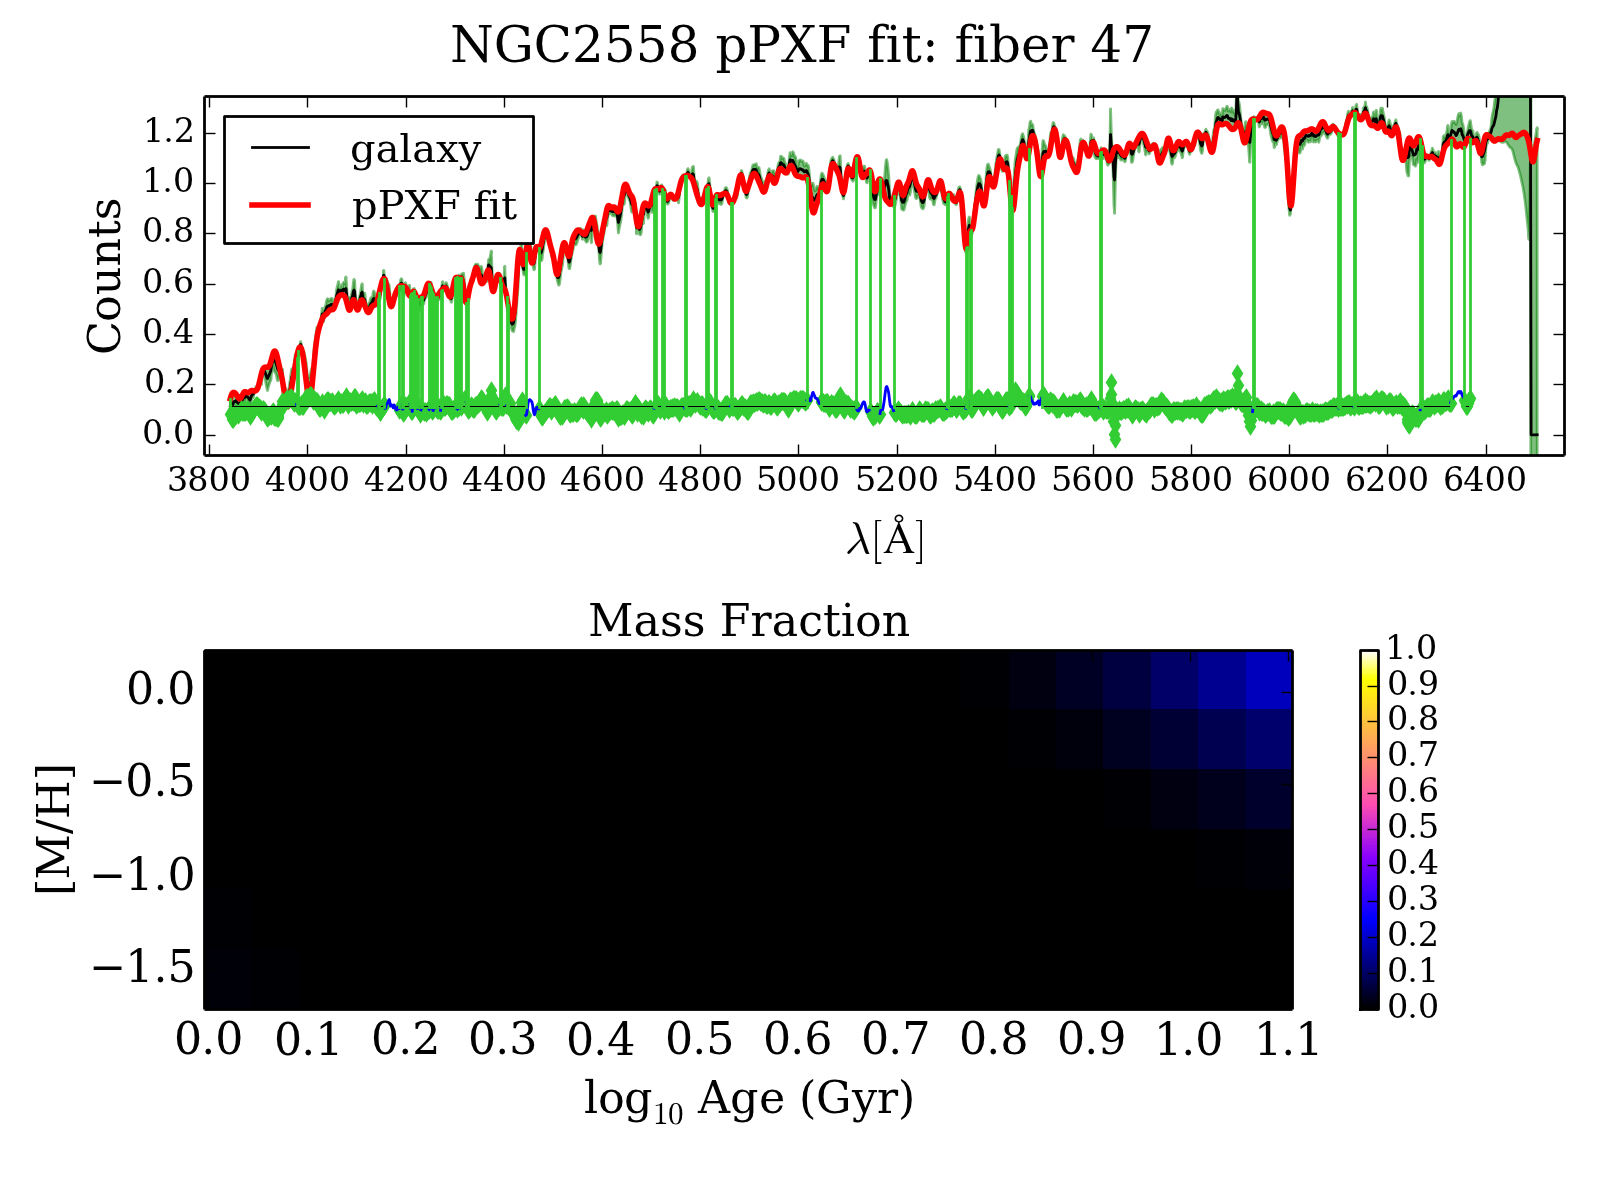
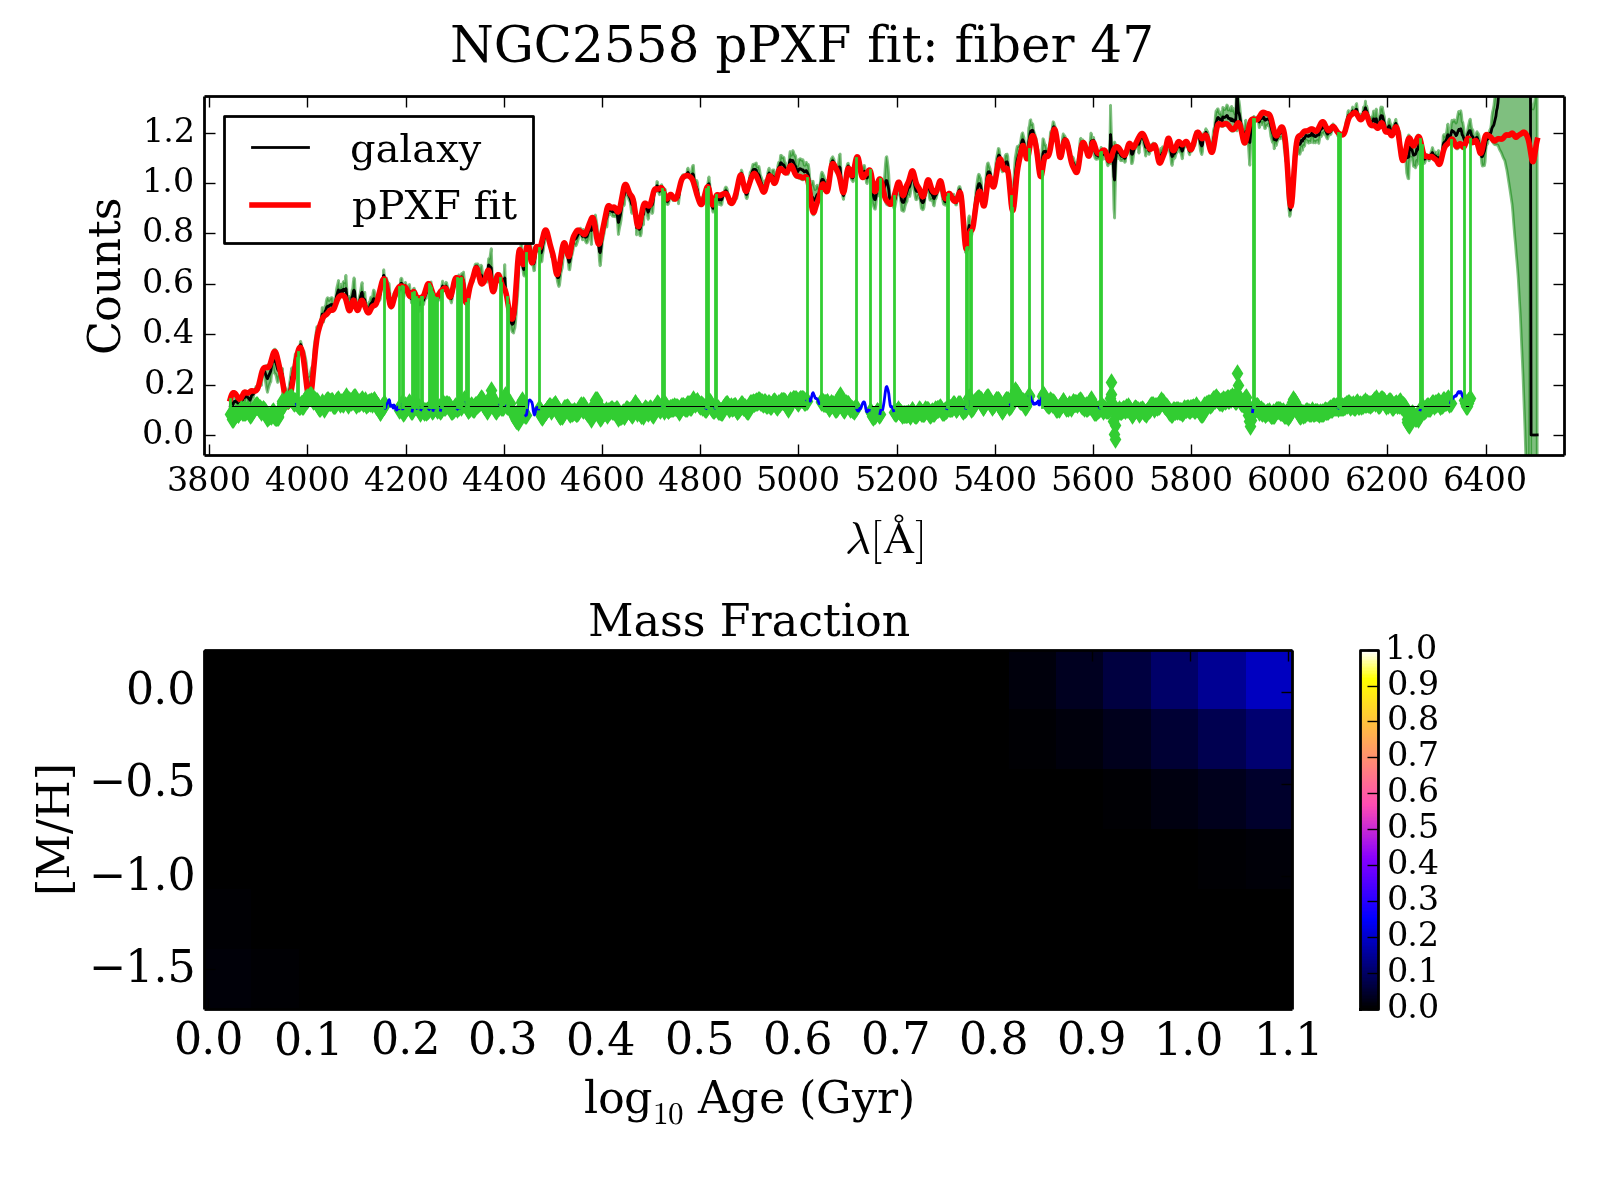
added some gas fitting, not working yet

diff --git a/SPaCT.py b/SPaCT.py
@@ -634,7 +634,7 @@ def gal_rad_dep_plot(objname, fibers, quantity = None, qty_dets = '', save = Fal
 def SP_pPXF(ifu, fiber, l_summ, z, template_set = 'MILES', verbose = False, 
 	noise_plots = False, fit_plots = False, reddening = None, age_lim = 13.6, 
 	n_moments = 4, bias = None,	objname = '', clean = True, quiet = False, 
-	oversample = False, save_fits = False):
+	oversample = False, save_fits = False, gas_comps = None):
 	'''
 	Run Cappellari et al.'s pPXF on a SparsePak fiber
 
@@ -648,6 +648,7 @@ def SP_pPXF(ifu, fiber, l_summ, z, template_set = 'MILES', verbose = False,
 	 - verbose (False): provide updates & diagnostics on fit
 	 - fit_plots (False): plot total fit & population diagram?
 	 - reddening (None): E(B-V) estimate
+	 - gas_comps (None): how many gas components to use (if it's `None`, then pPXF just fits the gas)
 	'''
 	import numpy as np
 	import matplotlib.pyplot as plt
@@ -828,30 +829,87 @@ def SP_pPXF(ifu, fiber, l_summ, z, template_set = 'MILES', verbose = False,
 
 		print start
 
+		#first pass: initial fit of parameters, no noise, no regul, no gas
+
 		pp = ppxf(templates = templates, galaxy = galaxy/np.median(galaxy), noise = galaxy*0.+1.,
-			velScale = velscale, start = start, goodpixels = goodPixels, plot = False, 
+			velScale = velscale, start = start, goodpixels = goodPixels, plot = False,
 			moments = n_moments, degree = 4, vsyst = dv, reddening = reddening, 
 			lam = lam, quiet = True)
 		#print 'First pass successful'
-		if verbose == True:
-			print 'First pass results'
-			print pp.sol
+		print 'First pass results'
+		print '\t', pp.sol
+		print '\tChi2/DOF =', pp.chi2 #this will be anomalous, since uniform noise spectrum is assumed
 
+		#new noise spectrum will be residual from 1st fit
 		noise = np.abs(pp.bestfit - galaxy/np.median(galaxy))
+
+		pp = ppxf(templates = templates, galaxy = galaxy/np.median(galaxy), noise = noise, 
+			velScale = velscale, start = pp.sol[:2], goodpixels = goodPixels, clean = False, 
+			moments = n_moments, degree = 4, vsyst = dv, quiet = True,
+			reddening = reddening, lam = lam, bias = bias, 
+			oversample = oversample, regul = 100., reg_dim = reg_dim)
+		print 'Second pass results'
+		print '\t', pp.sol
+		print '\tChi2/DOF =', pp.chi2
+
+		print 'rescaling by', pp.chi2
+
+		noise *= np.sqrt(pp.chi2)
+
+		#rescale noise by factor sqrt(pp.chi2)
+
+		#add a gas component, if called for
+		#this requires making `moments` into lists with length equal to
+		#the number of components, as seen in `ppxf_population_gas_example.py`
+
+		nStar_templates = templates.shape[-1]
+		nGas_templates = 0
+
+		if gas_comps != None:
+			#BE CAREFUL!!!
+			#`nGas_templates` is the number of gas emission lines that are given for each kinematic component
+			#`gas_comps` is the number of gas components
+			#if you confuse these two, you're gonna have a bad time
+			gas_templates, line_names, line_wave = util.emission_lines(logLam2, lamRange1, FWHM_gal)
+			nGas_templates = gas_templates.shape[1]
+			gas_templates = np.tile(gas_templates, (1, gas_comps))
+			print gas_templates.shape
+			print templates.shape
+			all_templates = np.hstack([templates, gas_templates])
+
+			#now modify the starting kinematics
+
+			moments = [n_moments] + [2] * nGas_templates
+			start = [start] * (nGas_templates + 1)
+
+		component = [for i in range(1, nGas_templates)]
+		[0] * nStar_templates + [1] * nGas_templates
 
 		pp = ppxf(templates = templates, galaxy = galaxy/np.median(galaxy), noise = noise, 
 			velScale = velscale, start = pp.sol[:2], goodpixels = goodPixels, clean = clean, 
 			plot = fit_plots, moments = n_moments, degree = 4, vsyst = dv, 
 			reddening = reddening, lam = lam, bias = bias, quiet = quiet, 
-			oversample = oversample, regul = 100., reg_dim = reg_dim)
-		print 'Second pass results'
-		print pp.sol
-		print 'Chi2/DOF =', pp.chi2
+			oversample = oversample, regul = 100., reg_dim = reg_dim, component = component)	
 
-		#print 'Second pass successful'
+		print 'Final pass results'
+		print '\t', pp.sol
+		print '\tChi2/DOF =', pp.chi2
+
+		if gas_comps != None:
+			gas = pp.matrix[:,-nLines:].dot(pp.weights[-nLines:])
+			w = np.where(np.array(component) == 1)[0] # Extract weights of gas emissions
+			print('Gas V=%.4g and sigma=%.2g km/s' % (pp.sol[1][0], pp.sol[1][1]))
+			print('Emission lines peak intensity:')
+			for name, weight, line in zip(line_names, pp.weights[w], pp.matrix[:,w].T):
+				print('%12s: %.3g' % (name, weight*np.max(line)))
+
+		#print 'Third pass successful'
 		
 		if fit_plots == True:
 			plt.fill_between(np.arange(0, len(noise)), (galaxy - noise)/np.median(galaxy), (galaxy + noise)/np.median(galaxy), edgecolor = 'green', facecolor = 'green', alpha = 0.5)
+
+			if gas_comps != None: 
+				plt.plot(np.arange(0, len(noise)), gas + 0.15, c = 'b', linewidth = 2)
 
 			label_locs = np.arange(100.*np.floor(np.min(lam)/100.), 100.*np.ceil(np.max(lam)/100.), 200).astype(int)
 			plt.xticks(lin_remap( label_locs, (lam[0], lam[-1]), (0, len(lam)) ), label_locs)
@@ -940,7 +998,7 @@ def pPXF_make_derived_plots(objname):
 	gal_rad_dep_plot(objname = objname, fibers = fiberdata, quantity = 'V', qty_dets = '[km/s]', save = True)
 	gal_rad_dep_plot(objname = objname, fibers = fiberdata, quantity = 'sigma', qty_dets = '[km/s]', save = True)
 
-def pPXF_run_galaxy(objname, first_few = None):
+def pPXF_run_galaxy(objname, first_few = None, gas_comps = None):
 	import ppxf
 	from astroML.datasets import fetch_sdss_spectrum
 	import warnings
@@ -1009,7 +1067,7 @@ def pPXF_run_galaxy(objname, first_few = None):
 			pp, ssps = SP_pPXF((ifu.T/np.median(ifu, axis = 1)).T, fiber = fiber, l_summ = (3907., 1.4, 1934), 
 				z = z + dz, verbose = False, noise_plots = False, fit_plots = True, save_fits = True, 
 				clean = True, quiet = True, age_lim = 13.5, n_moments = n_moments, 
-				bias = None, objname = objname, oversample = False, reddening = EBV)
+				bias = None, objname = objname, oversample = False, reddening = EBV, gas_comps = gas_comps)
 
 			fiber_Z = np.log10(np.average(10.**ssps['Z'], weights = ssps['fits']))
 			fiber_age = np.average(ssps['t'], weights = ssps['fits'])
